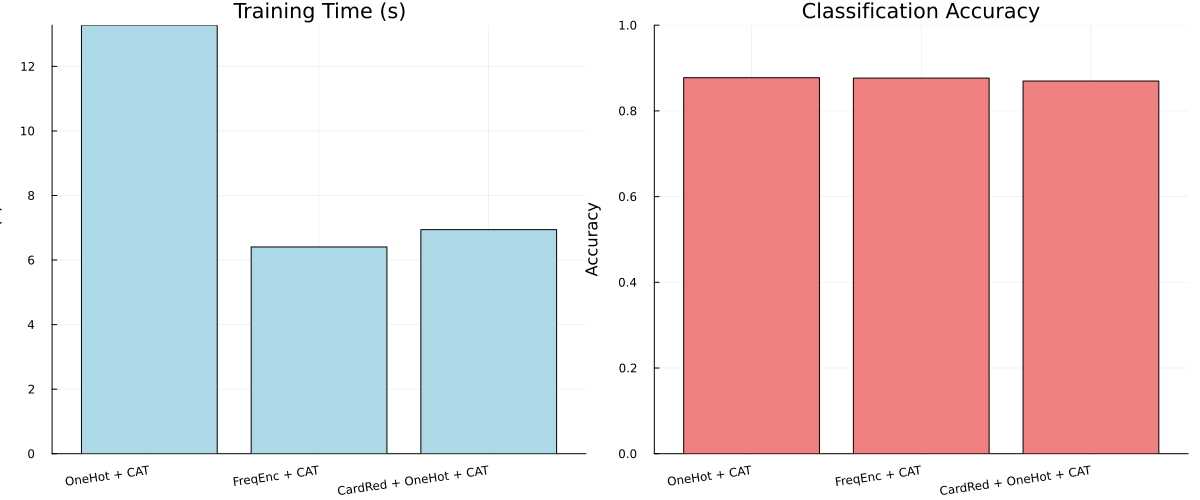
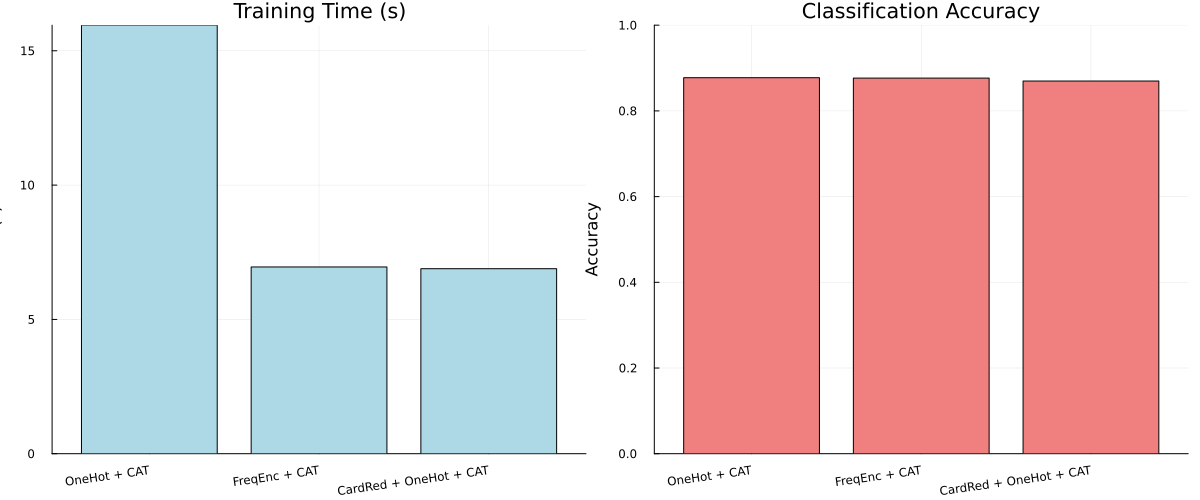
✨ MLJ Update

diff --git a/docs/src/tutorials/adult_example/notebook.md b/docs/src/tutorials/adult_example/notebook.md
@@ -20,11 +20,17 @@ challenge differently, affecting both model performance and training speed.
 demonstrate how encoders handle extreme cardinality - a common real-world scenario with
 features like customer IDs, product codes, or geographical subdivisions.
 
-packages are already activated by generate.jl
-
 ````julia
-using MLJ, MLJTransforms, DataFrames, ScientificTypes
+using Pkg;
+Pkg.activate(@__DIR__);
+
+using MLJ, DataFrames, ScientificTypes
 using Random, CSV, StatsBase, Plots, BenchmarkTools
+````
+
+````
+  Activating project at `~/Documents/GitHub/MLJTransforms/docs/src/tutorials/adult_example`
+
 ````
 
 Import scitypes from MLJ to avoid any package version skew
@@ -66,7 +72,7 @@ first(df, 5)
 ````
 
 ```@raw html
-<div><div style = "float: left;"><span>5×15 DataFrame</span></div><div style = "clear: both;"></div></div><div class = "data-frame" style = "overflow-x: scroll;"><table class = "data-frame" style = "margin-bottom: 6px;"><thead><tr class = "header"><th class = "rowNumber" style = "font-weight: bold; text-align: right;">Row</th><th style = "text-align: left;">age</th><th style = "text-align: left;">workclass</th><th style = "text-align: left;">fnlwgt</th><th style = "text-align: left;">education</th><th style = "text-align: left;">education_num</th><th style = "text-align: left;">marital_status</th><th style = "text-align: left;">occupation</th><th style = "text-align: left;">relationship</th><th style = "text-align: left;">race</th><th style = "text-align: left;">sex</th><th style = "text-align: left;">capital_gain</th><th style = "text-align: left;">capital_loss</th><th style = "text-align: left;">hours_per_week</th><th style = "text-align: left;">native_country</th><th style = "text-align: left;">income</th></tr><tr class = "subheader headerLastRow"><th class = "rowNumber" style = "font-weight: bold; text-align: right;"></th><th title = "Int64" style = "text-align: left;">Int64</th><th title = "InlineStrings.String31" style = "text-align: left;">String31</th><th title = "Int64" style = "text-align: left;">Int64</th><th title = "InlineStrings.String15" style = "text-align: left;">String15</th><th title = "Int64" style = "text-align: left;">Int64</th><th title = "InlineStrings.String31" style = "text-align: left;">String31</th><th title = "InlineStrings.String31" style = "text-align: left;">String31</th><th title = "InlineStrings.String15" style = "text-align: left;">String15</th><th title = "InlineStrings.String31" style = "text-align: left;">String31</th><th title = "InlineStrings.String7" style = "text-align: left;">String7</th><th title = "Int64" style = "text-align: left;">Int64</th><th title = "Int64" style = "text-align: left;">Int64</th><th title = "Int64" style = "text-align: left;">Int64</th><th title = "InlineStrings.String31" style = "text-align: left;">String31</th><th title = "InlineStrings.String7" style = "text-align: left;">String7</th></tr></thead><tbody><tr><td class = "rowNumber" style = "font-weight: bold; text-align: right;">1</td><td style = "text-align: right;">25</td><td style = "text-align: left;">Private</td><td style = "text-align: right;">226802</td><td style = "text-align: left;">11th</td><td style = "text-align: right;">7</td><td style = "text-align: left;">Never-married</td><td style = "text-align: left;">Machine-op-inspct</td><td style = "text-align: left;">Own-child</td><td style = "text-align: left;">Black</td><td style = "text-align: left;">Male</td><td style = "text-align: right;">0</td><td style = "text-align: right;">0</td><td style = "text-align: right;">40</td><td style = "text-align: left;">United-States</td><td style = "text-align: left;">&lt;=50K</td></tr><tr><td class = "rowNumber" style = "font-weight: bold; text-align: right;">2</td><td style = "text-align: right;">38</td><td style = "text-align: left;">Private</td><td style = "text-align: right;">89814</td><td style = "text-align: left;">HS-grad</td><td style = "text-align: right;">9</td><td style = "text-align: left;">Married-civ-spouse</td><td style = "text-align: left;">Farming-fishing</td><td style = "text-align: left;">Husband</td><td style = "text-align: left;">White</td><td style = "text-align: left;">Male</td><td style = "text-align: right;">0</td><td style = "text-align: right;">0</td><td style = "text-align: right;">50</td><td style = "text-align: left;">United-States</td><td style = "text-align: left;">&lt;=50K</td></tr><tr><td class = "rowNumber" style = "font-weight: bold; text-align: right;">3</td><td style = "text-align: right;">28</td><td style = "text-align: left;">Local-gov</td><td style = "text-align: right;">336951</td><td style = "text-align: left;">Assoc-acdm</td><td style = "text-align: right;">12</td><td style = "text-align: left;">Married-civ-spouse</td><td style = "text-align: left;">Protective-serv</td><td style = "text-align: left;">Husband</td><td style = "text-align: left;">White</td><td style = "text-align: left;">Male</td><td style = "text-align: right;">0</td><td style = "text-align: right;">0</td><td style = "text-align: right;">40</td><td style = "text-align: left;">United-States</td><td style = "text-align: left;">&gt;50K</td></tr><tr><td class = "rowNumber" style = "font-weight: bold; text-align: right;">4</td><td style = "text-align: right;">44</td><td style = "text-align: left;">Private</td><td style = "text-align: right;">160323</td><td style = "text-align: left;">Some-college</td><td style = "text-align: right;">10</td><td style = "text-align: left;">Married-civ-spouse</td><td style = "text-align: left;">Machine-op-inspct</td><td style = "text-align: left;">Husband</td><td style = "text-align: left;">Black</td><td style = "text-align: left;">Male</td><td style = "text-align: right;">7688</td><td style = "text-align: right;">0</td><td style = "text-align: right;">40</td><td style = "text-align: left;">United-States</td><td style = "text-align: left;">&gt;50K</td></tr><tr><td class = "rowNumber" style = "font-weight: bold; text-align: right;">5</td><td style = "text-align: right;">18</td><td style = "text-align: left;">?</td><td style = "text-align: right;">103497</td><td style = "text-align: left;">Some-college</td><td style = "text-align: right;">10</td><td style = "text-align: left;">Never-married</td><td style = "text-align: left;">?</td><td style = "text-align: left;">Own-child</td><td style = "text-align: left;">White</td><td style = "text-align: left;">Female</td><td style = "text-align: right;">0</td><td style = "text-align: right;">0</td><td style = "text-align: right;">30</td><td style = "text-align: left;">United-States</td><td style = "text-align: left;">&lt;=50K</td></tr></tbody></table></div>
+<div><div style = "float: left;"><span>5×15 DataFrame</span></div><div style = "clear: both;"></div></div><div class = "data-frame" style = "overflow-x: scroll;"><table class = "data-frame" style = "margin-bottom: 6px;"><thead><tr class = "header"><th class = "rowNumber" style = "font-weight: bold; text-align: right;">Row</th><th style = "text-align: left;">age</th><th style = "text-align: left;">workclass</th><th style = "text-align: left;">fnlwgt</th><th style = "text-align: left;">education</th><th style = "text-align: left;">education_num</th><th style = "text-align: left;">marital_status</th><th style = "text-align: left;">occupation</th><th style = "text-align: left;">relationship</th><th style = "text-align: left;">race</th><th style = "text-align: left;">sex</th><th style = "text-align: left;">capital_gain</th><th style = "text-align: left;">capital_loss</th><th style = "text-align: left;">hours_per_week</th><th style = "text-align: left;">native_country</th><th style = "text-align: left;">income</th></tr><tr class = "subheader headerLastRow"><th class = "rowNumber" style = "font-weight: bold; text-align: right;"></th><th title = "Int64" style = "text-align: left;">Int64</th><th title = "String31" style = "text-align: left;">String31</th><th title = "Int64" style = "text-align: left;">Int64</th><th title = "String15" style = "text-align: left;">String15</th><th title = "Int64" style = "text-align: left;">Int64</th><th title = "String31" style = "text-align: left;">String31</th><th title = "String31" style = "text-align: left;">String31</th><th title = "String15" style = "text-align: left;">String15</th><th title = "String31" style = "text-align: left;">String31</th><th title = "String7" style = "text-align: left;">String7</th><th title = "Int64" style = "text-align: left;">Int64</th><th title = "Int64" style = "text-align: left;">Int64</th><th title = "Int64" style = "text-align: left;">Int64</th><th title = "String31" style = "text-align: left;">String31</th><th title = "String7" style = "text-align: left;">String7</th></tr></thead><tbody><tr><td class = "rowNumber" style = "font-weight: bold; text-align: right;">1</td><td style = "text-align: right;">25</td><td style = "text-align: left;">Private</td><td style = "text-align: right;">226802</td><td style = "text-align: left;">11th</td><td style = "text-align: right;">7</td><td style = "text-align: left;">Never-married</td><td style = "text-align: left;">Machine-op-inspct</td><td style = "text-align: left;">Own-child</td><td style = "text-align: left;">Black</td><td style = "text-align: left;">Male</td><td style = "text-align: right;">0</td><td style = "text-align: right;">0</td><td style = "text-align: right;">40</td><td style = "text-align: left;">United-States</td><td style = "text-align: left;">&lt;=50K</td></tr><tr><td class = "rowNumber" style = "font-weight: bold; text-align: right;">2</td><td style = "text-align: right;">38</td><td style = "text-align: left;">Private</td><td style = "text-align: right;">89814</td><td style = "text-align: left;">HS-grad</td><td style = "text-align: right;">9</td><td style = "text-align: left;">Married-civ-spouse</td><td style = "text-align: left;">Farming-fishing</td><td style = "text-align: left;">Husband</td><td style = "text-align: left;">White</td><td style = "text-align: left;">Male</td><td style = "text-align: right;">0</td><td style = "text-align: right;">0</td><td style = "text-align: right;">50</td><td style = "text-align: left;">United-States</td><td style = "text-align: left;">&lt;=50K</td></tr><tr><td class = "rowNumber" style = "font-weight: bold; text-align: right;">3</td><td style = "text-align: right;">28</td><td style = "text-align: left;">Local-gov</td><td style = "text-align: right;">336951</td><td style = "text-align: left;">Assoc-acdm</td><td style = "text-align: right;">12</td><td style = "text-align: left;">Married-civ-spouse</td><td style = "text-align: left;">Protective-serv</td><td style = "text-align: left;">Husband</td><td style = "text-align: left;">White</td><td style = "text-align: left;">Male</td><td style = "text-align: right;">0</td><td style = "text-align: right;">0</td><td style = "text-align: right;">40</td><td style = "text-align: left;">United-States</td><td style = "text-align: left;">&gt;50K</td></tr><tr><td class = "rowNumber" style = "font-weight: bold; text-align: right;">4</td><td style = "text-align: right;">44</td><td style = "text-align: left;">Private</td><td style = "text-align: right;">160323</td><td style = "text-align: left;">Some-college</td><td style = "text-align: right;">10</td><td style = "text-align: left;">Married-civ-spouse</td><td style = "text-align: left;">Machine-op-inspct</td><td style = "text-align: left;">Husband</td><td style = "text-align: left;">Black</td><td style = "text-align: left;">Male</td><td style = "text-align: right;">7688</td><td style = "text-align: right;">0</td><td style = "text-align: right;">40</td><td style = "text-align: left;">United-States</td><td style = "text-align: left;">&gt;50K</td></tr><tr><td class = "rowNumber" style = "font-weight: bold; text-align: right;">5</td><td style = "text-align: right;">18</td><td style = "text-align: left;">?</td><td style = "text-align: right;">103497</td><td style = "text-align: left;">Some-college</td><td style = "text-align: right;">10</td><td style = "text-align: left;">Never-married</td><td style = "text-align: left;">?</td><td style = "text-align: left;">Own-child</td><td style = "text-align: left;">White</td><td style = "text-align: left;">Female</td><td style = "text-align: right;">0</td><td style = "text-align: right;">0</td><td style = "text-align: right;">30</td><td style = "text-align: left;">United-States</td><td style = "text-align: left;">&lt;=50K</td></tr></tbody></table></div>
 ```
 
 Clean the data by removing leading/trailing spaces and converting income to binary:
@@ -171,7 +177,6 @@ train, test = partition(eachindex(y), 0.8, shuffle = true, rng = 100);
 Load the required models and create different encoding strategies:
 
 ````julia
-OneHot = @load OneHotEncoder pkg = MLJModels verbosity = 0
 CatBoostClassifier = @load CatBoostClassifier pkg = CatBoost
 ````
 
@@ -193,8 +198,8 @@ card_reducer = MLJTransforms.CardinalityReducer(
         Char => 'O',
     ),
 )
-onehot_model = OneHot(drop_last = true, ordered_factor = true)
-freq_model = MLJTransforms.FrequencyEncoder(normalize = false, ordered_factor = true)
+onehot_model = OneHotEncoder(drop_last = true, ordered_factor = true)
+freq_model = FrequencyEncoder(normalize = false, ordered_factor = true)
 cat = CatBoostClassifier();
 ````
 
@@ -300,7 +305,7 @@ Training and benchmarking: CardRed + OneHot + CAT
 [ Info: Spawning 2 sub-features to one-hot encode feature :native_country.
 [ Info: Spawning 3 sub-features to one-hot encode feature :high_cardinality_feature.
 [ Info: Training machine(:cat_boost_classifier, …).
-  Training time (min over 5 samples): 6.941996542 s
+  Training time (min over 5 samples): 6.887171291 s
   Accuracy: 0.8697
 
 Training and benchmarking: OneHot + CAT
@@ -352,7 +357,7 @@ Training and benchmarking: OneHot + CAT
 [ Info: Spawning 41 sub-features to one-hot encode feature :native_country.
 [ Info: Spawning 499 sub-features to one-hot encode feature :high_cardinality_feature.
 [ Info: Training machine(:cat_boost_classifier, …).
-  Training time (min over 5 samples): 13.276352708 s
+  Training time (min over 5 samples): 15.952417041 s
   Accuracy: 0.8775
 
 Training and benchmarking: FreqEnc + CAT
@@ -368,7 +373,7 @@ Training and benchmarking: FreqEnc + CAT
 [ Info: Training machine(ProbabilisticPipeline(frequency_encoder = FrequencyEncoder(features = Symbol[], …), …), …).
 [ Info: Training machine(:frequency_encoder, …).
 [ Info: Training machine(:cat_boost_classifier, …).
-  Training time (min over 5 samples): 6.405741208 s
+  Training time (min over 5 samples): 6.951079292 s
   Accuracy: 0.8765
 
 
@@ -382,7 +387,7 @@ results
 ````
 
 ```@raw html
-<div><div style = "float: left;"><span>3×3 DataFrame</span></div><div style = "clear: both;"></div></div><div class = "data-frame" style = "overflow-x: scroll;"><table class = "data-frame" style = "margin-bottom: 6px;"><thead><tr class = "header"><th class = "rowNumber" style = "font-weight: bold; text-align: right;">Row</th><th style = "text-align: left;">pipeline</th><th style = "text-align: left;">accuracy</th><th style = "text-align: left;">training_time</th></tr><tr class = "subheader headerLastRow"><th class = "rowNumber" style = "font-weight: bold; text-align: right;"></th><th title = "String" style = "text-align: left;">String</th><th title = "Float64" style = "text-align: left;">Float64</th><th title = "Float64" style = "text-align: left;">Float64</th></tr></thead><tbody><tr><td class = "rowNumber" style = "font-weight: bold; text-align: right;">1</td><td style = "text-align: left;">OneHot + CAT</td><td style = "text-align: right;">0.877457</td><td style = "text-align: right;">13.2764</td></tr><tr><td class = "rowNumber" style = "font-weight: bold; text-align: right;">2</td><td style = "text-align: left;">FreqEnc + CAT</td><td style = "text-align: right;">0.876536</td><td style = "text-align: right;">6.40574</td></tr><tr><td class = "rowNumber" style = "font-weight: bold; text-align: right;">3</td><td style = "text-align: left;">CardRed + OneHot + CAT</td><td style = "text-align: right;">0.869676</td><td style = "text-align: right;">6.942</td></tr></tbody></table></div>
+<div><div style = "float: left;"><span>3×3 DataFrame</span></div><div style = "clear: both;"></div></div><div class = "data-frame" style = "overflow-x: scroll;"><table class = "data-frame" style = "margin-bottom: 6px;"><thead><tr class = "header"><th class = "rowNumber" style = "font-weight: bold; text-align: right;">Row</th><th style = "text-align: left;">pipeline</th><th style = "text-align: left;">accuracy</th><th style = "text-align: left;">training_time</th></tr><tr class = "subheader headerLastRow"><th class = "rowNumber" style = "font-weight: bold; text-align: right;"></th><th title = "String" style = "text-align: left;">String</th><th title = "Float64" style = "text-align: left;">Float64</th><th title = "Float64" style = "text-align: left;">Float64</th></tr></thead><tbody><tr><td class = "rowNumber" style = "font-weight: bold; text-align: right;">1</td><td style = "text-align: left;">OneHot + CAT</td><td style = "text-align: right;">0.877457</td><td style = "text-align: right;">15.9524</td></tr><tr><td class = "rowNumber" style = "font-weight: bold; text-align: right;">2</td><td style = "text-align: left;">FreqEnc + CAT</td><td style = "text-align: right;">0.876536</td><td style = "text-align: right;">6.95108</td></tr><tr><td class = "rowNumber" style = "font-weight: bold; text-align: right;">3</td><td style = "text-align: left;">CardRed + OneHot + CAT</td><td style = "text-align: right;">0.869676</td><td style = "text-align: right;">6.88717</td></tr></tbody></table></div>
 ```
 
 ## Visualization
@@ -405,7 +410,7 @@ results  # show table
 ````
 
 ```@raw html
-<div><div style = "float: left;"><span>3×3 DataFrame</span></div><div style = "clear: both;"></div></div><div class = "data-frame" style = "overflow-x: scroll;"><table class = "data-frame" style = "margin-bottom: 6px;"><thead><tr class = "header"><th class = "rowNumber" style = "font-weight: bold; text-align: right;">Row</th><th style = "text-align: left;">pipeline</th><th style = "text-align: left;">accuracy</th><th style = "text-align: left;">training_time</th></tr><tr class = "subheader headerLastRow"><th class = "rowNumber" style = "font-weight: bold; text-align: right;"></th><th title = "String" style = "text-align: left;">String</th><th title = "Float64" style = "text-align: left;">Float64</th><th title = "Float64" style = "text-align: left;">Float64</th></tr></thead><tbody><tr><td class = "rowNumber" style = "font-weight: bold; text-align: right;">1</td><td style = "text-align: left;">OneHot + CAT</td><td style = "text-align: right;">0.877457</td><td style = "text-align: right;">13.2764</td></tr><tr><td class = "rowNumber" style = "font-weight: bold; text-align: right;">2</td><td style = "text-align: left;">FreqEnc + CAT</td><td style = "text-align: right;">0.876536</td><td style = "text-align: right;">6.40574</td></tr><tr><td class = "rowNumber" style = "font-weight: bold; text-align: right;">3</td><td style = "text-align: left;">CardRed + OneHot + CAT</td><td style = "text-align: right;">0.869676</td><td style = "text-align: right;">6.942</td></tr></tbody></table></div>
+<div><div style = "float: left;"><span>3×3 DataFrame</span></div><div style = "clear: both;"></div></div><div class = "data-frame" style = "overflow-x: scroll;"><table class = "data-frame" style = "margin-bottom: 6px;"><thead><tr class = "header"><th class = "rowNumber" style = "font-weight: bold; text-align: right;">Row</th><th style = "text-align: left;">pipeline</th><th style = "text-align: left;">accuracy</th><th style = "text-align: left;">training_time</th></tr><tr class = "subheader headerLastRow"><th class = "rowNumber" style = "font-weight: bold; text-align: right;"></th><th title = "String" style = "text-align: left;">String</th><th title = "Float64" style = "text-align: left;">Float64</th><th title = "Float64" style = "text-align: left;">Float64</th></tr></thead><tbody><tr><td class = "rowNumber" style = "font-weight: bold; text-align: right;">1</td><td style = "text-align: left;">OneHot + CAT</td><td style = "text-align: right;">0.877457</td><td style = "text-align: right;">15.9524</td></tr><tr><td class = "rowNumber" style = "font-weight: bold; text-align: right;">2</td><td style = "text-align: left;">FreqEnc + CAT</td><td style = "text-align: right;">0.876536</td><td style = "text-align: right;">6.95108</td></tr><tr><td class = "rowNumber" style = "font-weight: bold; text-align: right;">3</td><td style = "text-align: left;">CardRed + OneHot + CAT</td><td style = "text-align: right;">0.869676</td><td style = "text-align: right;">6.88717</td></tr></tbody></table></div>
 ```
 
 -------------------------

diff --git a/docs/src/tutorials/classic_comparison/notebook.md b/docs/src/tutorials/classic_comparison/notebook.md
@@ -16,7 +16,7 @@ OneHot, Frequency, Target, and Ordinal encoders paired with SVM classification.
 using Pkg;
 Pkg.activate(@__DIR__);
 
-using MLJ, MLJTransforms, LIBSVM, DataFrames, ScientificTypes
+using MLJ, LIBSVM, DataFrames, ScientificTypes
 using Random, CSV, Plots
 ````
 
@@ -65,7 +65,7 @@ Automatically coerce columns with few unique values to categorical:
 ````julia
 df = coerce(df, autotype(df, :few_to_finite))
 
-ScientificTypes.schema(df)
+schema(df)
 ````
 
 ````
@@ -96,7 +96,6 @@ train, test = partition(eachindex(y), 0.9, shuffle = true, rng = 100);
 Load the required models and create different encoding strategies:
 
 ````julia
-OneHot = @load OneHotEncoder pkg = MLJModels verbosity = 0
 SVC = @load SVC pkg = LIBSVM verbosity = 0
 ````
 
@@ -111,10 +110,10 @@ MLJLIBSVMInterface.SVC
 4. **Ordinal**: Assigns integer codes to categories (assumes ordering)
 
 ````julia
-onehot_model = OneHot(drop_last = true, ordered_factor = true)
-freq_model = MLJTransforms.FrequencyEncoder(normalize = false, ordered_factor = true)
-target_model = MLJTransforms.TargetEncoder(lambda = 0.9, m = 5, ordered_factor = true)
-ordinal_model = MLJTransforms.OrdinalEncoder(ordered_factor = true)
+onehot_model = OneHotEncoder(drop_last = true, ordered_factor = true)
+freq_model = FrequencyEncoder(normalize = false, ordered_factor = true)
+target_model = TargetEncoder(lambda = 0.9, m = 5, ordered_factor = true)
+ordinal_model = OrdinalEncoder(ordered_factor = true)
 svm = SVC()
 ````
 
